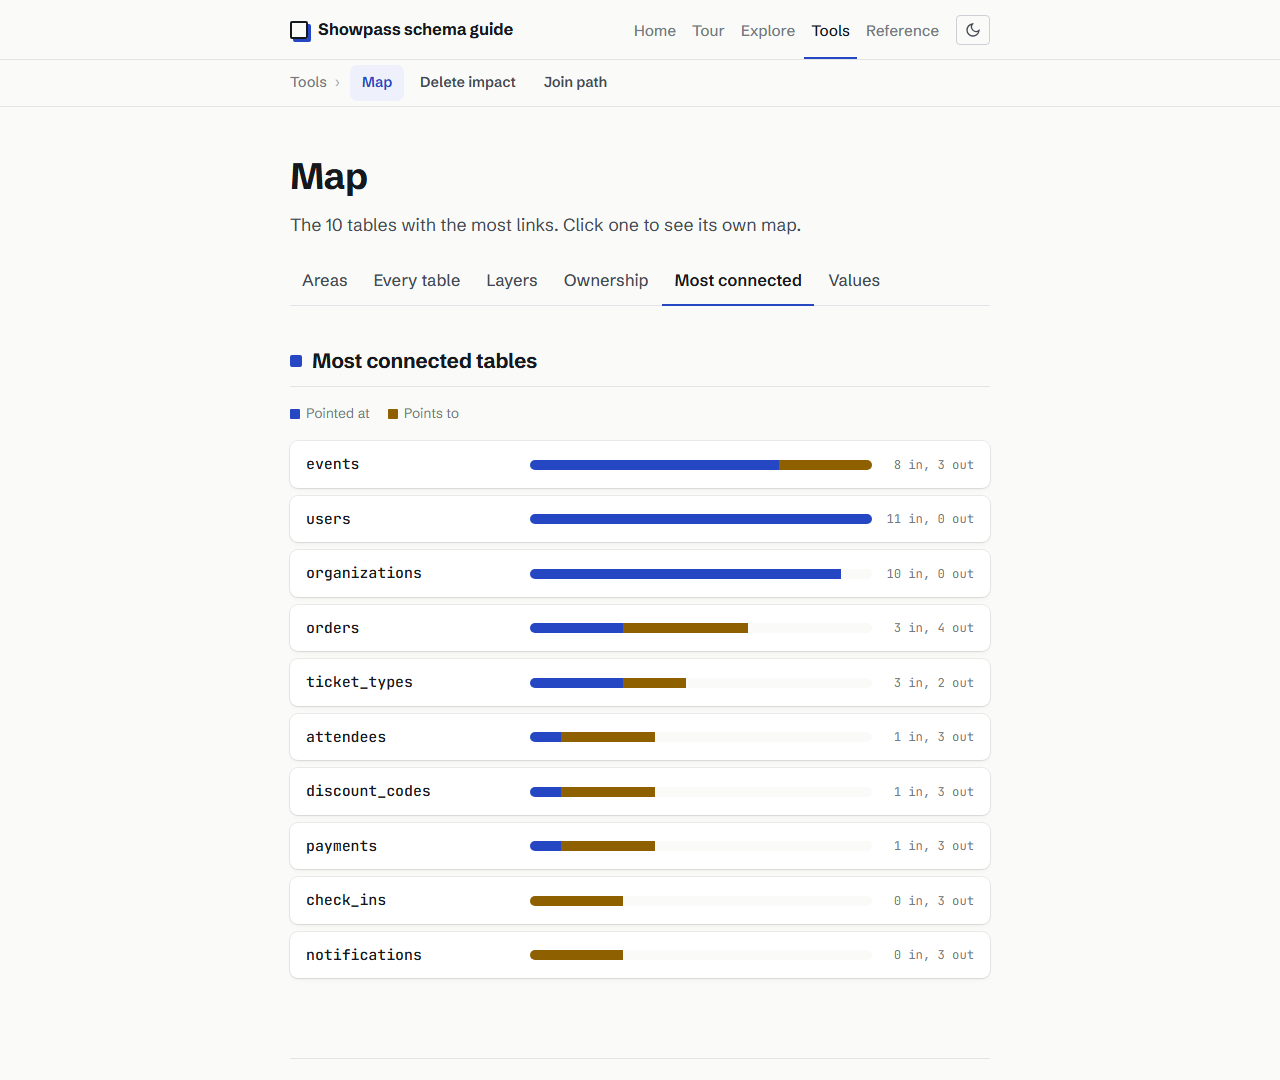
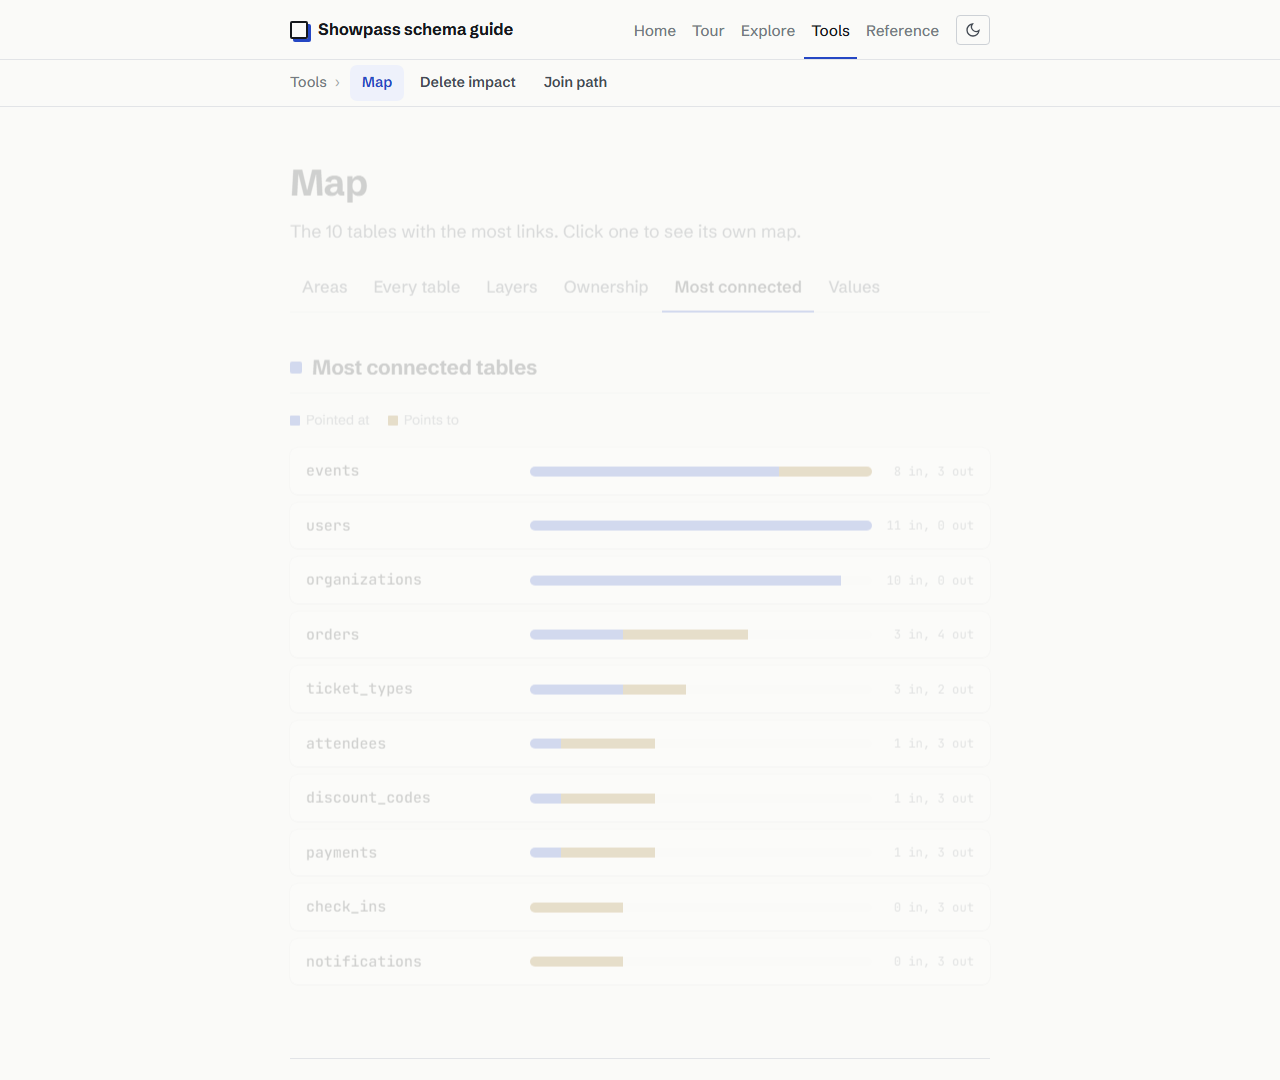
Release 1.0.0: say only what the schema actually supports

diff --git a/examples/demo/schema-guide.html b/examples/demo/schema-guide.html
@@ -666,10 +666,12 @@ details.own .tree{margin-top:2px}
 .val-row > a b{color:var(--ink);font-weight:600}
 .val-hint{margin:6px 0 0;font-size:.8rem;color:var(--muted)}
 .caveat{display:block;margin-top:7px;opacity:.85}
-.credit{display:flex;flex-wrap:wrap;align-items:center;gap:10px;margin-top:14px;padding-top:12px;border-top:1px solid var(--line)}
-.credit a{color:inherit}
-.dev-link{display:inline-flex;align-items:center;gap:6px;padding:5px 12px;border:1.5px solid var(--line);border-radius:999px;font-size:.85rem;font-weight:600;color:var(--ink-2);text-decoration:none;white-space:nowrap}
-.dev-link:hover,.dev-link:focus-visible{border-color:var(--accent);color:var(--accent)}
+:root{--gold:#9A7B1F; --gold-line:rgba(190,154,58,.5); --gold-aura:rgba(190,154,58,.14)}
+@media (prefers-color-scheme:dark){:root:not([data-theme="light"]){--gold:#E0C274; --gold-line:rgba(224,194,116,.42); --gold-aura:rgba(224,194,116,.12)}}
+:root[data-theme="dark"]{--gold:#E0C274; --gold-line:rgba(224,194,116,.42); --gold-aura:rgba(224,194,116,.12)}
+.credit{display:flex;margin-top:14px;padding-top:12px;border-top:1px solid var(--line)}
+.dev-link{display:inline-flex;align-items:center;gap:6px;padding:5px 13px;border:1.5px solid var(--gold-line);border-radius:999px;font-size:.85rem;font-weight:600;color:var(--gold);text-decoration:none;white-space:nowrap;box-shadow:0 0 0 3px var(--gold-aura),0 1px 7px var(--gold-aura);transition:box-shadow .15s,border-color .15s}
+.dev-link:hover,.dev-link:focus-visible{border-color:var(--gold);box-shadow:0 0 0 5px var(--gold-aura),0 2px 12px var(--gold-aura)}
 .dev-link svg{width:13px;height:13px;fill:none;stroke:currentColor;stroke-width:2;stroke-linecap:round;stroke-linejoin:round}
 @media (max-width:560px){
   .val-row{grid-template-columns:1fr}
@@ -1069,8 +1071,7 @@ function buildRefPages() {
   const when = src.readAt ? new Date(src.readAt).toLocaleDateString('en-GB', { day: 'numeric', month: 'short', year: 'numeric' }) : '';
   const kind = { postgres: 'PostgreSQL', mysql: 'MySQL', sqlite: 'SQLite', files: 'schema files', inferred: 'application code' }[src.kind] || 'database';
   const credit =
-    `<span class="credit"><span>Built with <a href="https://github.com/A-Piyas-04/schema-guide" target="_blank" rel="noopener noreferrer">schema-guide</a> by Ahnaf Shahriar Pias</span>` +
-    `<a class="dev-link" href="https://ahnaf-s-p.vercel.app" target="_blank" rel="noopener noreferrer">Meet the dev` +
+    `<span class="credit"><a class="dev-link" href="https://ahnaf-s-p.vercel.app" target="_blank" rel="noopener noreferrer">Meet the dev` +
     `<svg viewBox="0 0 24 24" aria-hidden="true"><path d="M7 17 17 7M9 7h8v8"/></svg></a></span>`;
   const written =
     `<span class="caveat">The wording on these pages was written by Claude from this project's code, and can be wrong or out of date. Check anything you are about to depend on; corrections go in <code>.schema-guide/guide.json</code>.</span>`;

diff --git a/plugins/schema-guide/template/guide.html b/plugins/schema-guide/template/guide.html
@@ -666,10 +666,12 @@ details.own .tree{margin-top:2px}
 .val-row > a b{color:var(--ink);font-weight:600}
 .val-hint{margin:6px 0 0;font-size:.8rem;color:var(--muted)}
 .caveat{display:block;margin-top:7px;opacity:.85}
-.credit{display:flex;flex-wrap:wrap;align-items:center;gap:10px;margin-top:14px;padding-top:12px;border-top:1px solid var(--line)}
-.credit a{color:inherit}
-.dev-link{display:inline-flex;align-items:center;gap:6px;padding:5px 12px;border:1.5px solid var(--line);border-radius:999px;font-size:.85rem;font-weight:600;color:var(--ink-2);text-decoration:none;white-space:nowrap}
-.dev-link:hover,.dev-link:focus-visible{border-color:var(--accent);color:var(--accent)}
+:root{--gold:#9A7B1F; --gold-line:rgba(190,154,58,.5); --gold-aura:rgba(190,154,58,.14)}
+@media (prefers-color-scheme:dark){:root:not([data-theme="light"]){--gold:#E0C274; --gold-line:rgba(224,194,116,.42); --gold-aura:rgba(224,194,116,.12)}}
+:root[data-theme="dark"]{--gold:#E0C274; --gold-line:rgba(224,194,116,.42); --gold-aura:rgba(224,194,116,.12)}
+.credit{display:flex;margin-top:14px;padding-top:12px;border-top:1px solid var(--line)}
+.dev-link{display:inline-flex;align-items:center;gap:6px;padding:5px 13px;border:1.5px solid var(--gold-line);border-radius:999px;font-size:.85rem;font-weight:600;color:var(--gold);text-decoration:none;white-space:nowrap;box-shadow:0 0 0 3px var(--gold-aura),0 1px 7px var(--gold-aura);transition:box-shadow .15s,border-color .15s}
+.dev-link:hover,.dev-link:focus-visible{border-color:var(--gold);box-shadow:0 0 0 5px var(--gold-aura),0 2px 12px var(--gold-aura)}
 .dev-link svg{width:13px;height:13px;fill:none;stroke:currentColor;stroke-width:2;stroke-linecap:round;stroke-linejoin:round}
 @media (max-width:560px){
   .val-row{grid-template-columns:1fr}
@@ -1069,8 +1071,7 @@ function buildRefPages() {
   const when = src.readAt ? new Date(src.readAt).toLocaleDateString('en-GB', { day: 'numeric', month: 'short', year: 'numeric' }) : '';
   const kind = { postgres: 'PostgreSQL', mysql: 'MySQL', sqlite: 'SQLite', files: 'schema files', inferred: 'application code' }[src.kind] || 'database';
   const credit =
-    `<span class="credit"><span>Built with <a href="https://github.com/A-Piyas-04/schema-guide" target="_blank" rel="noopener noreferrer">schema-guide</a> by Ahnaf Shahriar Pias</span>` +
-    `<a class="dev-link" href="https://ahnaf-s-p.vercel.app" target="_blank" rel="noopener noreferrer">Meet the dev` +
+    `<span class="credit"><a class="dev-link" href="https://ahnaf-s-p.vercel.app" target="_blank" rel="noopener noreferrer">Meet the dev` +
     `<svg viewBox="0 0 24 24" aria-hidden="true"><path d="M7 17 17 7M9 7h8v8"/></svg></a></span>`;
   const written =
     `<span class="caveat">The wording on these pages was written by Claude from this project's code, and can be wrong or out of date. Check anything you are about to depend on; corrections go in <code>.schema-guide/guide.json</code>.</span>`;

diff --git a/CHANGELOG.md b/CHANGELOG.md
@@ -17,7 +17,7 @@ First release.
 **The page**
 
 - Home, Tour, Explore (areas → tables → About / Columns / Links / Indexes), Tools (Map with six views, Delete impact, Join path), Reference. One offline file, opening in light mode with a remembered dark toggle.
-- Every page's footer credits the plugin and carries a **Meet the dev** button linking to the author's portfolio.
+- Every page's footer carries a **Meet the dev** button linking to the author's portfolio.
 
 **Honesty about what it knows**
 
